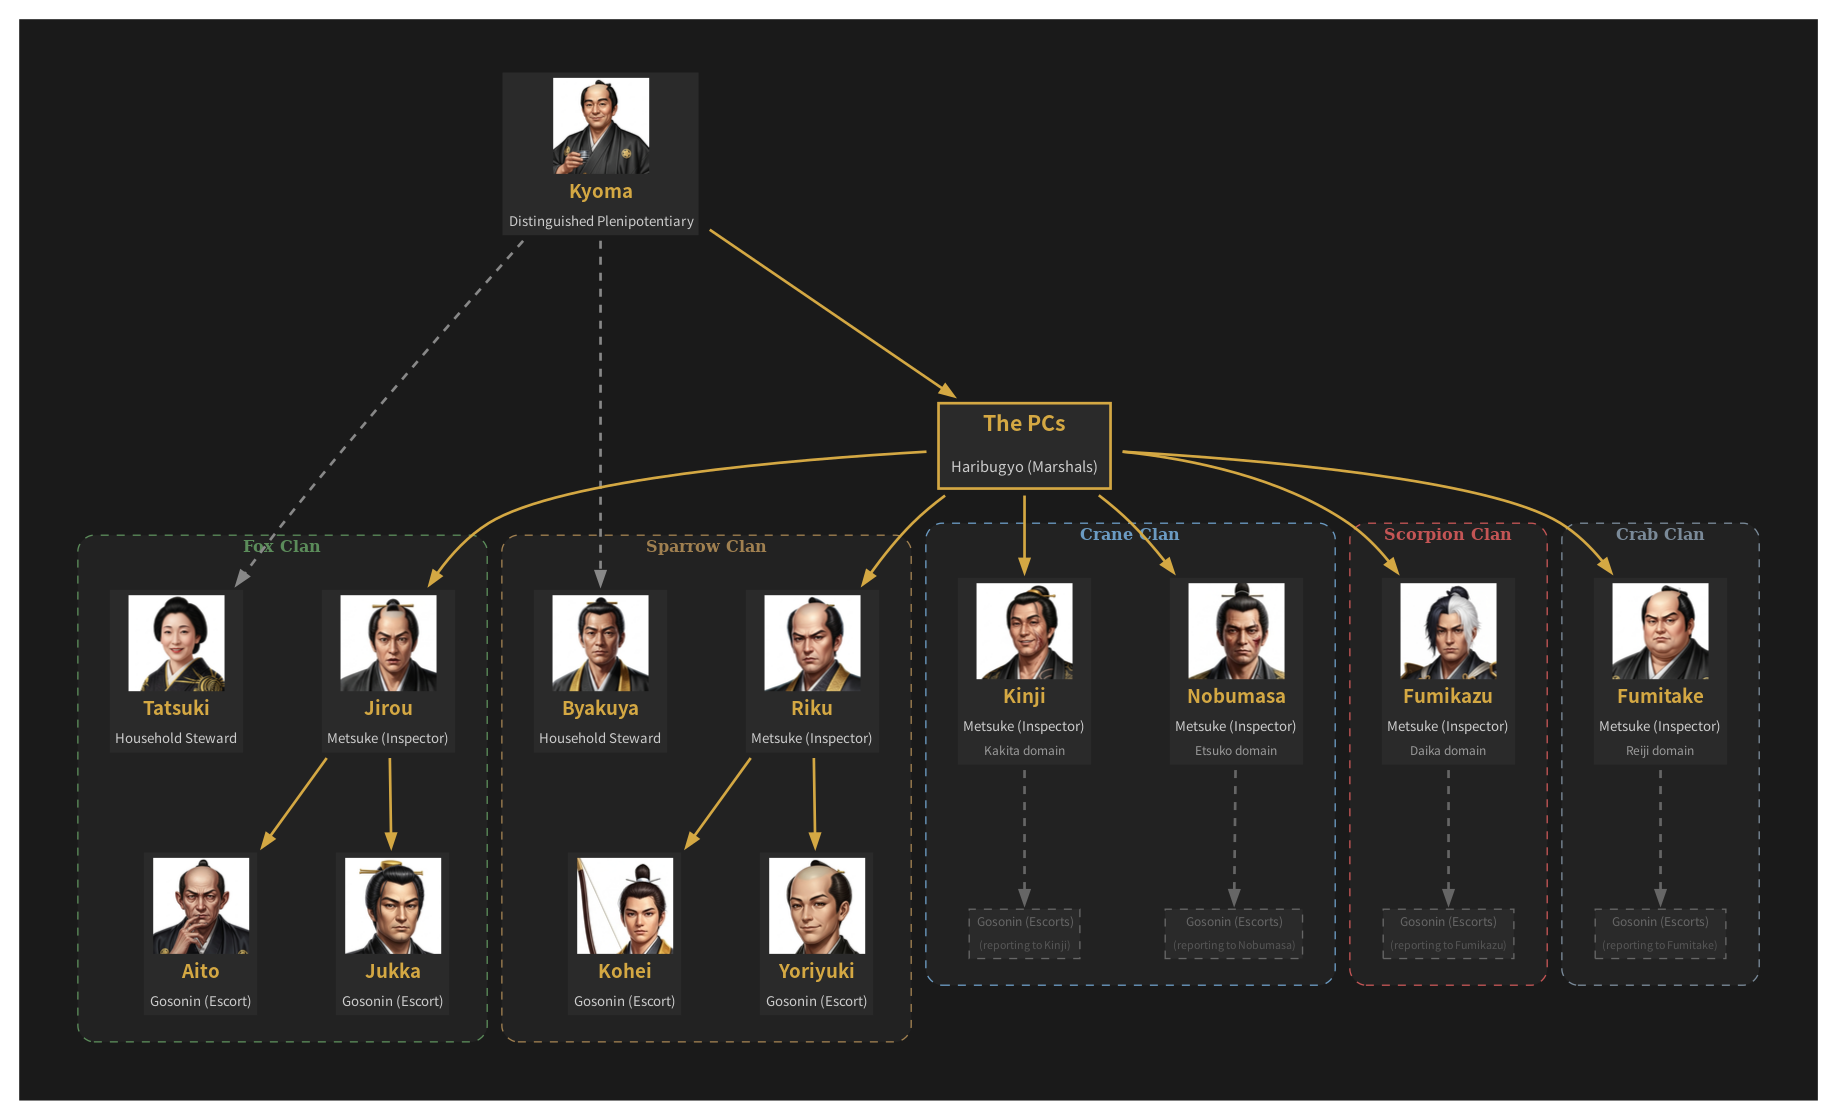
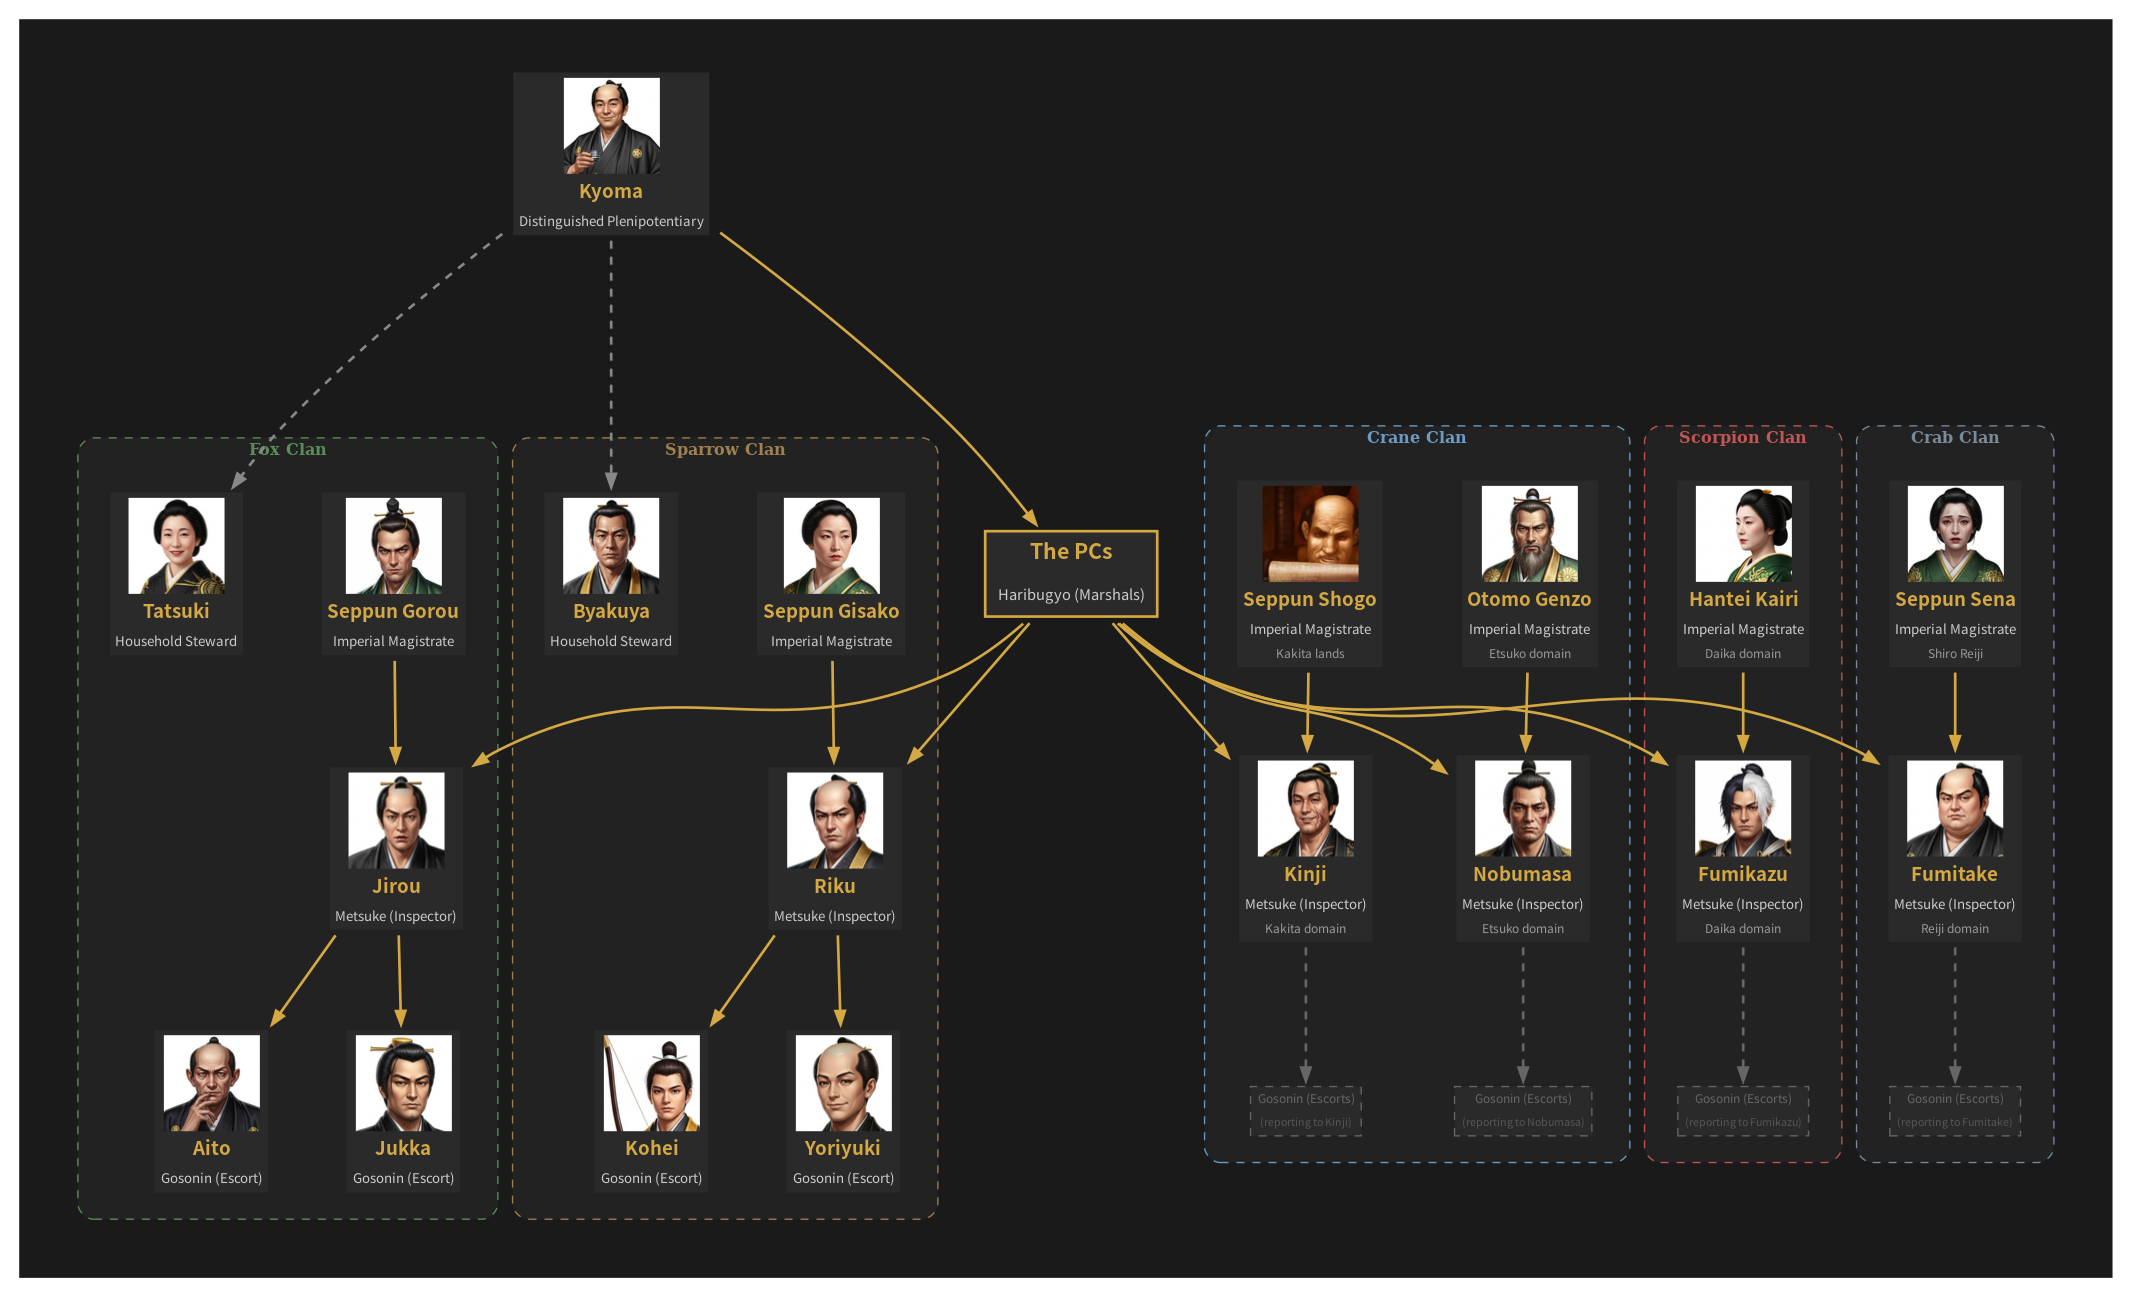
improved orgchart

diff --git a/orgchart.py b/orgchart.py
@@ -51,6 +51,12 @@ def build_orgchart(fmt='png', output=None):
     escorts = find('Escort')
     stewards = find('Household Steward')
 
+    # Imperial magistrates (not Wasp, from the full character list)
+    imperial_magistrates = [
+        c for c in chars
+        if any(t == 'Imperial Magistrate' for t in c['tags'])
+    ]
+
     # Sort inspectors by domain name
     inspectors.sort(key=lambda c: c['description'])
 
@@ -153,11 +159,11 @@ def build_orgchart(fmt='png', output=None):
     # -- Clan clusters --
     # Map each inspector to a clan based on their domain
     clan_map = {
-        'Fox': {'color': '#5b8c5a', 'inspectors': [], 'escorts': [], 'steward': None},
-        'Sparrow': {'color': '#a08050', 'inspectors': [], 'escorts': [], 'steward': None},
-        'Crane': {'color': '#6b9bc3', 'inspectors': [], 'escorts': [], 'steward': None},
-        'Scorpion': {'color': '#c45555', 'inspectors': [], 'escorts': [], 'steward': None},
-        'Crab': {'color': '#7a8a99', 'inspectors': [], 'escorts': [], 'steward': None},
+        'Fox': {'color': '#5b8c5a', 'inspectors': [], 'magistrates': [], 'escorts': [], 'steward': None},
+        'Sparrow': {'color': '#a08050', 'inspectors': [], 'magistrates': [], 'escorts': [], 'steward': None},
+        'Crane': {'color': '#6b9bc3', 'inspectors': [], 'magistrates': [], 'escorts': [], 'steward': None},
+        'Scorpion': {'color': '#c45555', 'inspectors': [], 'magistrates': [], 'escorts': [], 'steward': None},
+        'Crab': {'color': '#7a8a99', 'inspectors': [], 'magistrates': [], 'escorts': [], 'steward': None},
     }
 
     domain_to_clan = {
@@ -168,10 +174,17 @@ def build_orgchart(fmt='png', output=None):
 
     for insp in inspectors:
         domain = re.sub(r'^Wasp [Ii]nspector for (the )?', '', insp['description'])
-        # Match domain name to clan
         for key, clan in domain_to_clan.items():
             if key.lower() in domain.lower():
                 clan_map[clan]['inspectors'].append(insp)
+                break
+
+    # Map Imperial magistrates to clans by domain
+    for mag in imperial_magistrates:
+        desc = mag.get('description', '')
+        for key, clan in domain_to_clan.items():
+            if key.lower() in desc.lower():
+                clan_map[clan]['magistrates'].append(mag)
                 break
 
     # Assign escorts and stewards to Fox/Sparrow
@@ -180,8 +193,9 @@ def build_orgchart(fmt='png', output=None):
     clan_map['Sparrow']['escorts'] = sparrow_escorts
     clan_map['Sparrow']['steward'] = sparrow_steward
 
-    def domain_cluster(name, label, color, clan_inspectors, clan_escorts,
-                       clan_steward, parent_id, show_domain_subtitle=True):
+    def domain_cluster(name, label, color, clan_inspectors, clan_magistrates,
+                       clan_escorts, clan_steward, parent_id,
+                       show_domain_subtitle=True):
         with g.subgraph(name=name) as s:
             s.attr(
                 label=f'<<FONT COLOR="{color}" POINT-SIZE="12"><B>{label}</B></FONT>>',
@@ -190,19 +204,39 @@ def build_orgchart(fmt='png', output=None):
                 bgcolor='#222222',
                 margin='16',
             )
+
+            # Imperial magistrates
+            for mag in clan_magistrates:
+                domain = re.sub(
+                    r'^Imperial magistrate for (the )?', '',
+                    mag.get('description', ''))
+                subtitle = domain if show_domain_subtitle else None
+                mag_id = add_char_node(mag, 'Imperial Magistrate',
+                                       subtitle=subtitle)
+                s.node(mag_id)
+
+            # Inspectors
             for insp in clan_inspectors:
-                domain = re.sub(r'^Wasp [Ii]nspector for (the )?', '', insp['description'])
+                domain = re.sub(r'^Wasp [Ii]nspector for (the )?', '',
+                                insp['description'])
                 subtitle = domain if show_domain_subtitle else None
                 insp_id = add_char_node(insp, 'Metsuke (Inspector)',
                                         subtitle=subtitle)
                 s.node(insp_id)
                 g.edge(parent_id, insp_id)
 
-                # Escorts reporting to this inspector
-                insp_escorts = [e for e in clan_escorts
-                                if e in clan_escorts]  # all clan escorts for now
-                if not insp_escorts:
-                    # Placeholder for unassigned escorts
+                # Find the matching magistrate for this inspector's domain
+                for mag in clan_magistrates:
+                    mag_desc = mag.get('description', '').lower()
+                    # Match by shared domain keywords
+                    for key in domain_to_clan:
+                        if (key.lower() in domain.lower() and
+                                key.lower() in mag_desc):
+                            g.edge(mag['slug'], insp['slug'])
+                            break
+
+                # Placeholder for unassigned escorts
+                if not clan_escorts:
                     display_name = re.sub(r'^Tsuruchi\s+', '', insp['name'])
                     placeholder_id = f'{insp["slug"]}_escorts'
                     g.node(placeholder_id,
@@ -245,6 +279,7 @@ def build_orgchart(fmt='png', output=None):
             f'{clan_name} Clan',
             info['color'],
             info['inspectors'],
+            info['magistrates'],
             info['escorts'],
             info['steward'],
             pc_id,